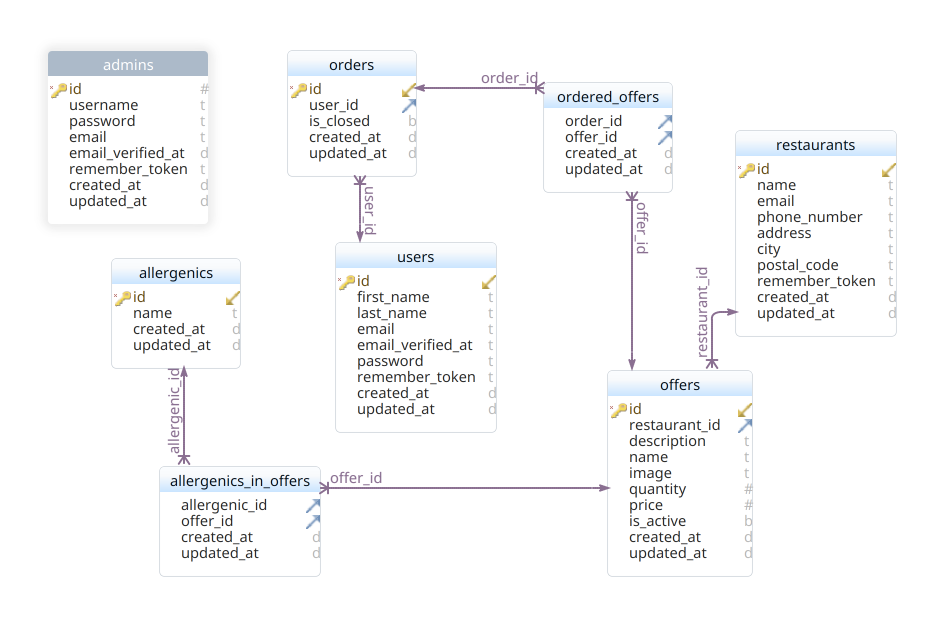
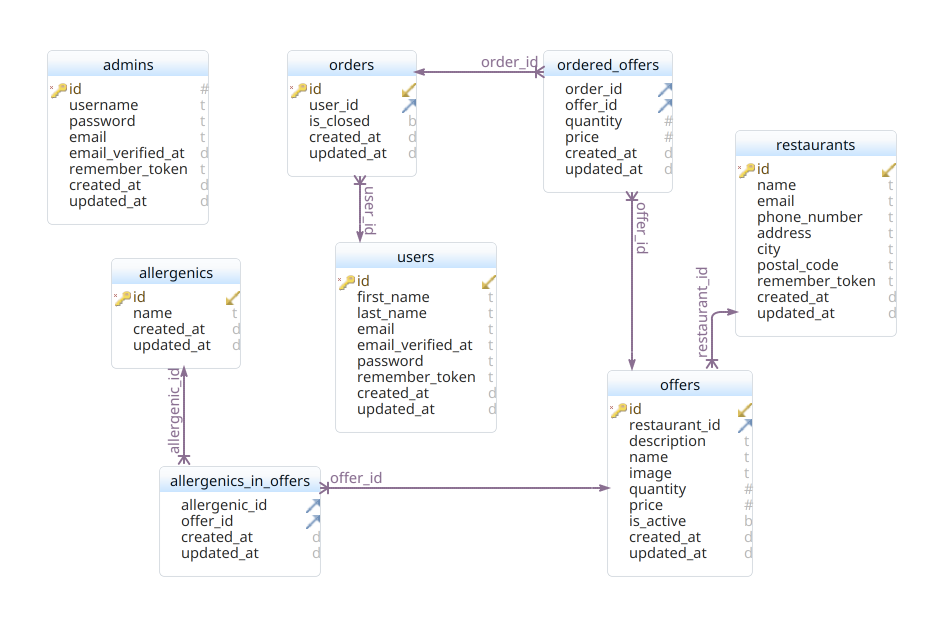
change migration from ordered_offers
add price/qt columns to ordered_offers, to simplify the calculations of order history

Changed region(s): [[0.4301, 0.0913, 0.7373, 0.2436], [0.0307, 0.0609, 0.2458, 0.1218]]

diff --git a/savour/database/migrations/2022_12_09_131247_create_ordered_offers_table.php b/savour/database/migrations/2022_12_09_131247_create_ordered_offers_table.php
@@ -16,6 +16,8 @@ return new class extends Migration
         Schema::create('ordered_offers', function (Blueprint $table) {
             $table->unsignedBigInteger('order_id');
             $table->unsignedBigInteger('offer_id');
+            $table->bigInteger('quantity');
+            $table->double('price');
 
             $table->timestamps();
 
